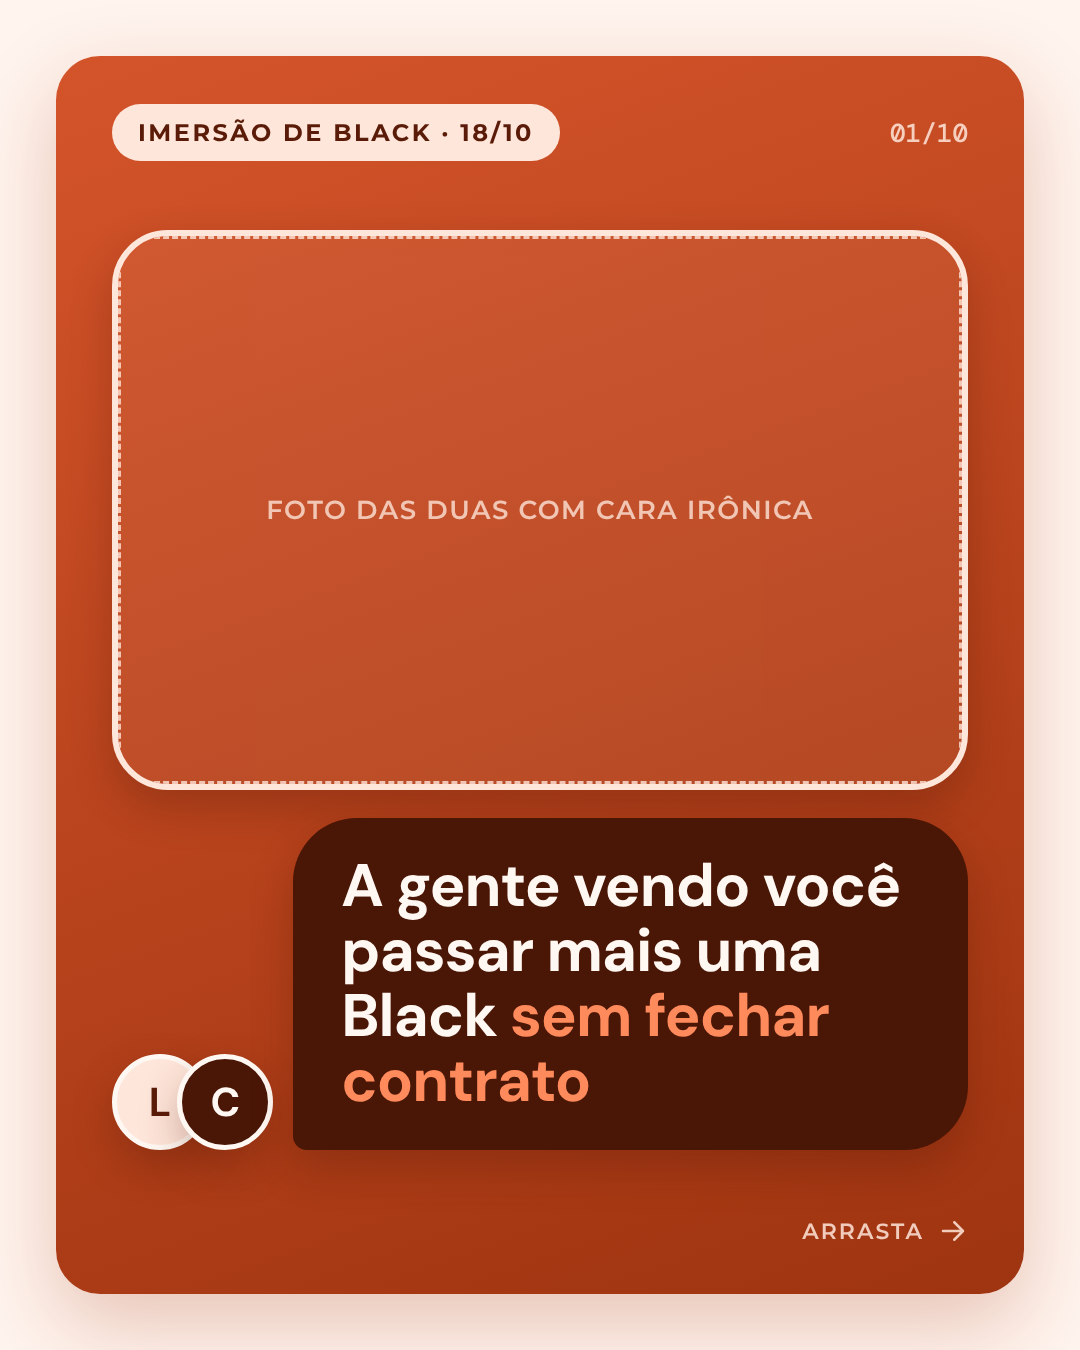
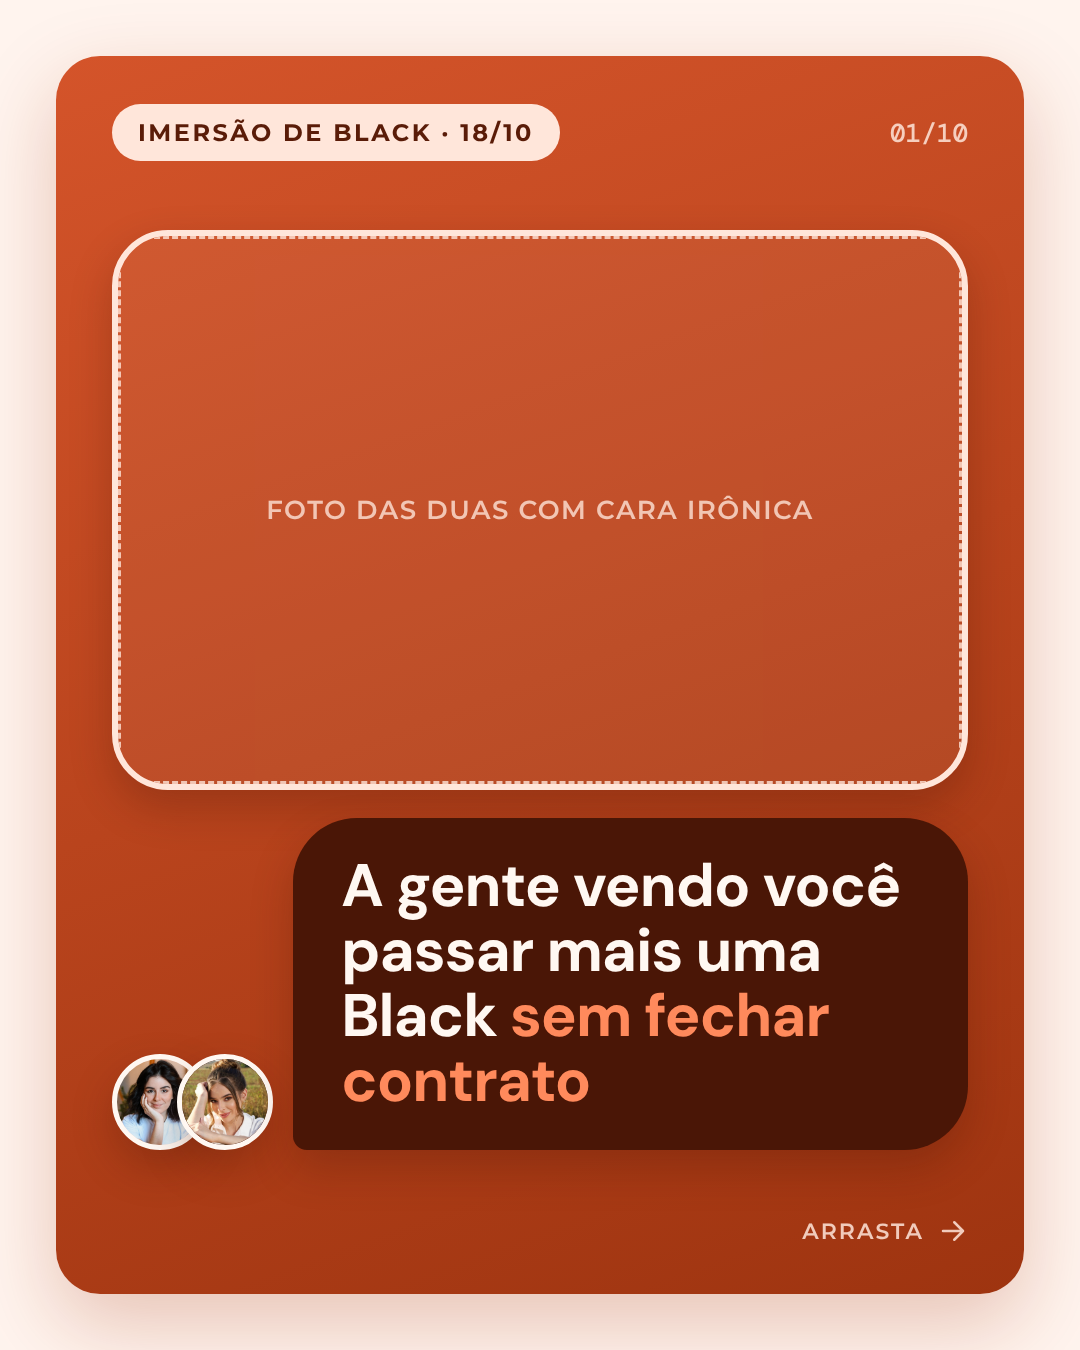
Carrossel: fotos da Lara e da Camila nos slides 3 e 4 e nos avatares
Claude-Session: https://claude.ai/code/session_01LxPPqQXdBWJWcxNamK4gsU

Changed region(s): [[0.0917, 0.7778, 0.2444, 0.8711]]

diff --git a/carrossel-imersao-black/src/slides.tsx b/carrossel-imersao-black/src/slides.tsx
@@ -52,17 +52,25 @@ export const S2: React.FC = () => (
   </Frame>
 );
 
+// Foto enviada como mensagem de imagem no chat
+const PhotoBubble: React.FC<{ src: string | null; label: string; tone: "light" | "dark" }> = ({ src, label: l, tone }) => (
+  <div style={{ width: 340, height: 340, borderRadius: 52, overflow: "hidden", border: `6px solid ${tone === "light" ? c.bubbleLight : c.bubbleDark}`, boxShadow: "0 18px 40px rgba(74,22,6,0.28)", flexShrink: 0 }}>
+    <Photo src={src} label={l} dark />
+  </div>
+);
+
 // 3 · Lado da Lara
 export const S3: React.FC = () => (
   <Frame n={3}>
     <Name side="left">Lado da {t.lara}</Name>
     <Row side="left" avatar={L}>
+      <PhotoBubble src={f.fotoLara} label="FOTO DA LARA" tone="light" />
       <Bubble side="left" tail={false}>
-        <Big size={76}>
+        <Big size={68}>
           Pra mim, é o <Hl on="light">portfólio.</Hl>
         </Big>
       </Bubble>
-      <Bubble side="left">
+      <Bubble side="left" style={{ fontSize: 36, padding: "32px 44px" }}>
         A marca abre seu link e não encontra variedade, não encontra o nicho dela, não consegue se imaginar no seu vídeo. <b>Ela passa pra próxima.</b>
       </Bubble>
     </Row>
@@ -74,12 +82,13 @@ export const S4: React.FC = () => (
   <Frame n={4}>
     <Name side="right">Lado da {t.camila}</Name>
     <Row side="right" avatar={C}>
+      <PhotoBubble src={f.fotoCamila} label="FOTO DA CAMILA" tone="dark" />
       <Bubble side="right" tail={false}>
-        <Big size={76}>
+        <Big size={68}>
           Pra mim, é a <Hl on="dark">abordagem.</Hl>
         </Big>
       </Bubble>
-      <Bubble side="right">
+      <Bubble side="right" style={{ fontSize: 36, padding: "32px 44px" }}>
         Se a sua mensagem é igual à de todo mundo, <b>a marca nem chega a clicar no seu link.</b>
       </Bubble>
     </Row>

diff --git a/carrossel-imersao-black/src/config.ts b/carrossel-imersao-black/src/config.ts
@@ -4,8 +4,10 @@
 
 export const fotos = {
   capa: null as string | null, // foto das duas com cara irônica
-  avatarLara: null as string | null,
-  avatarCamila: null as string | null,
+  fotoLara: "lara.jpg" as string | null, // slide 3
+  fotoCamila: "camila.jpg" as string | null, // slide 4
+  avatarLara: "lara.jpg" as string | null,
+  avatarCamila: "camila.jpg" as string | null,
   camilaRindo: null as string | null, // slide 6
   prints: [null, null, null] as (string | null)[], // prints dos stories/Threads (slide 2)
 };
